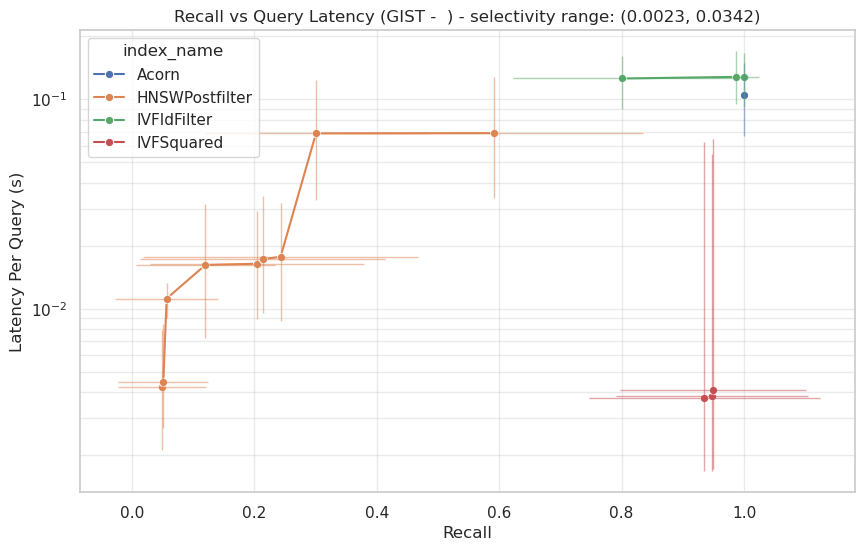
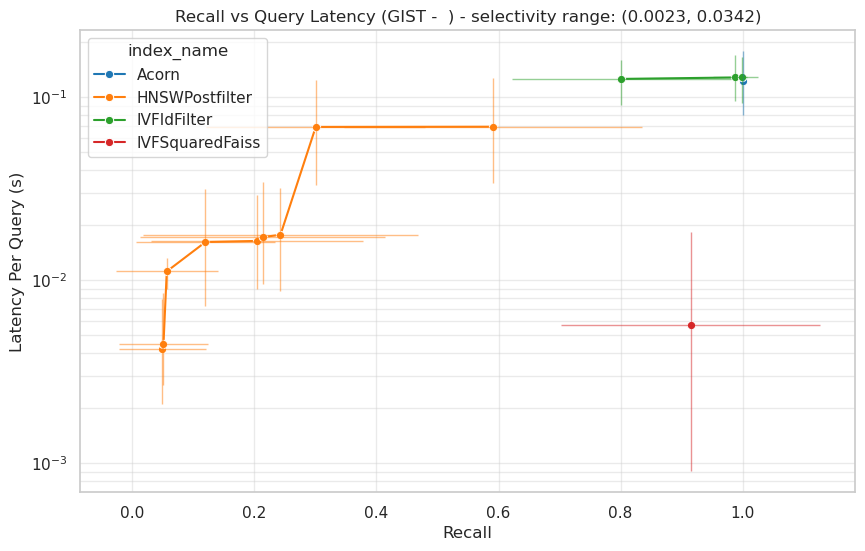
readme

diff --git a/README.md b/README.md
@@ -118,7 +118,7 @@ The plots will show the following metrics (this is a sample from the plots that 
 
 The recall vs latency plots:
 
-![Alt Text](sampled_plots/GIST_1.0__0.0023_0.0342_recall_latency.png)
+![Alt Text](sampled_plots/GIST_1.0__0.0000_1.0000_recall_latency.png)
 
 
 The build time + index memory plots
